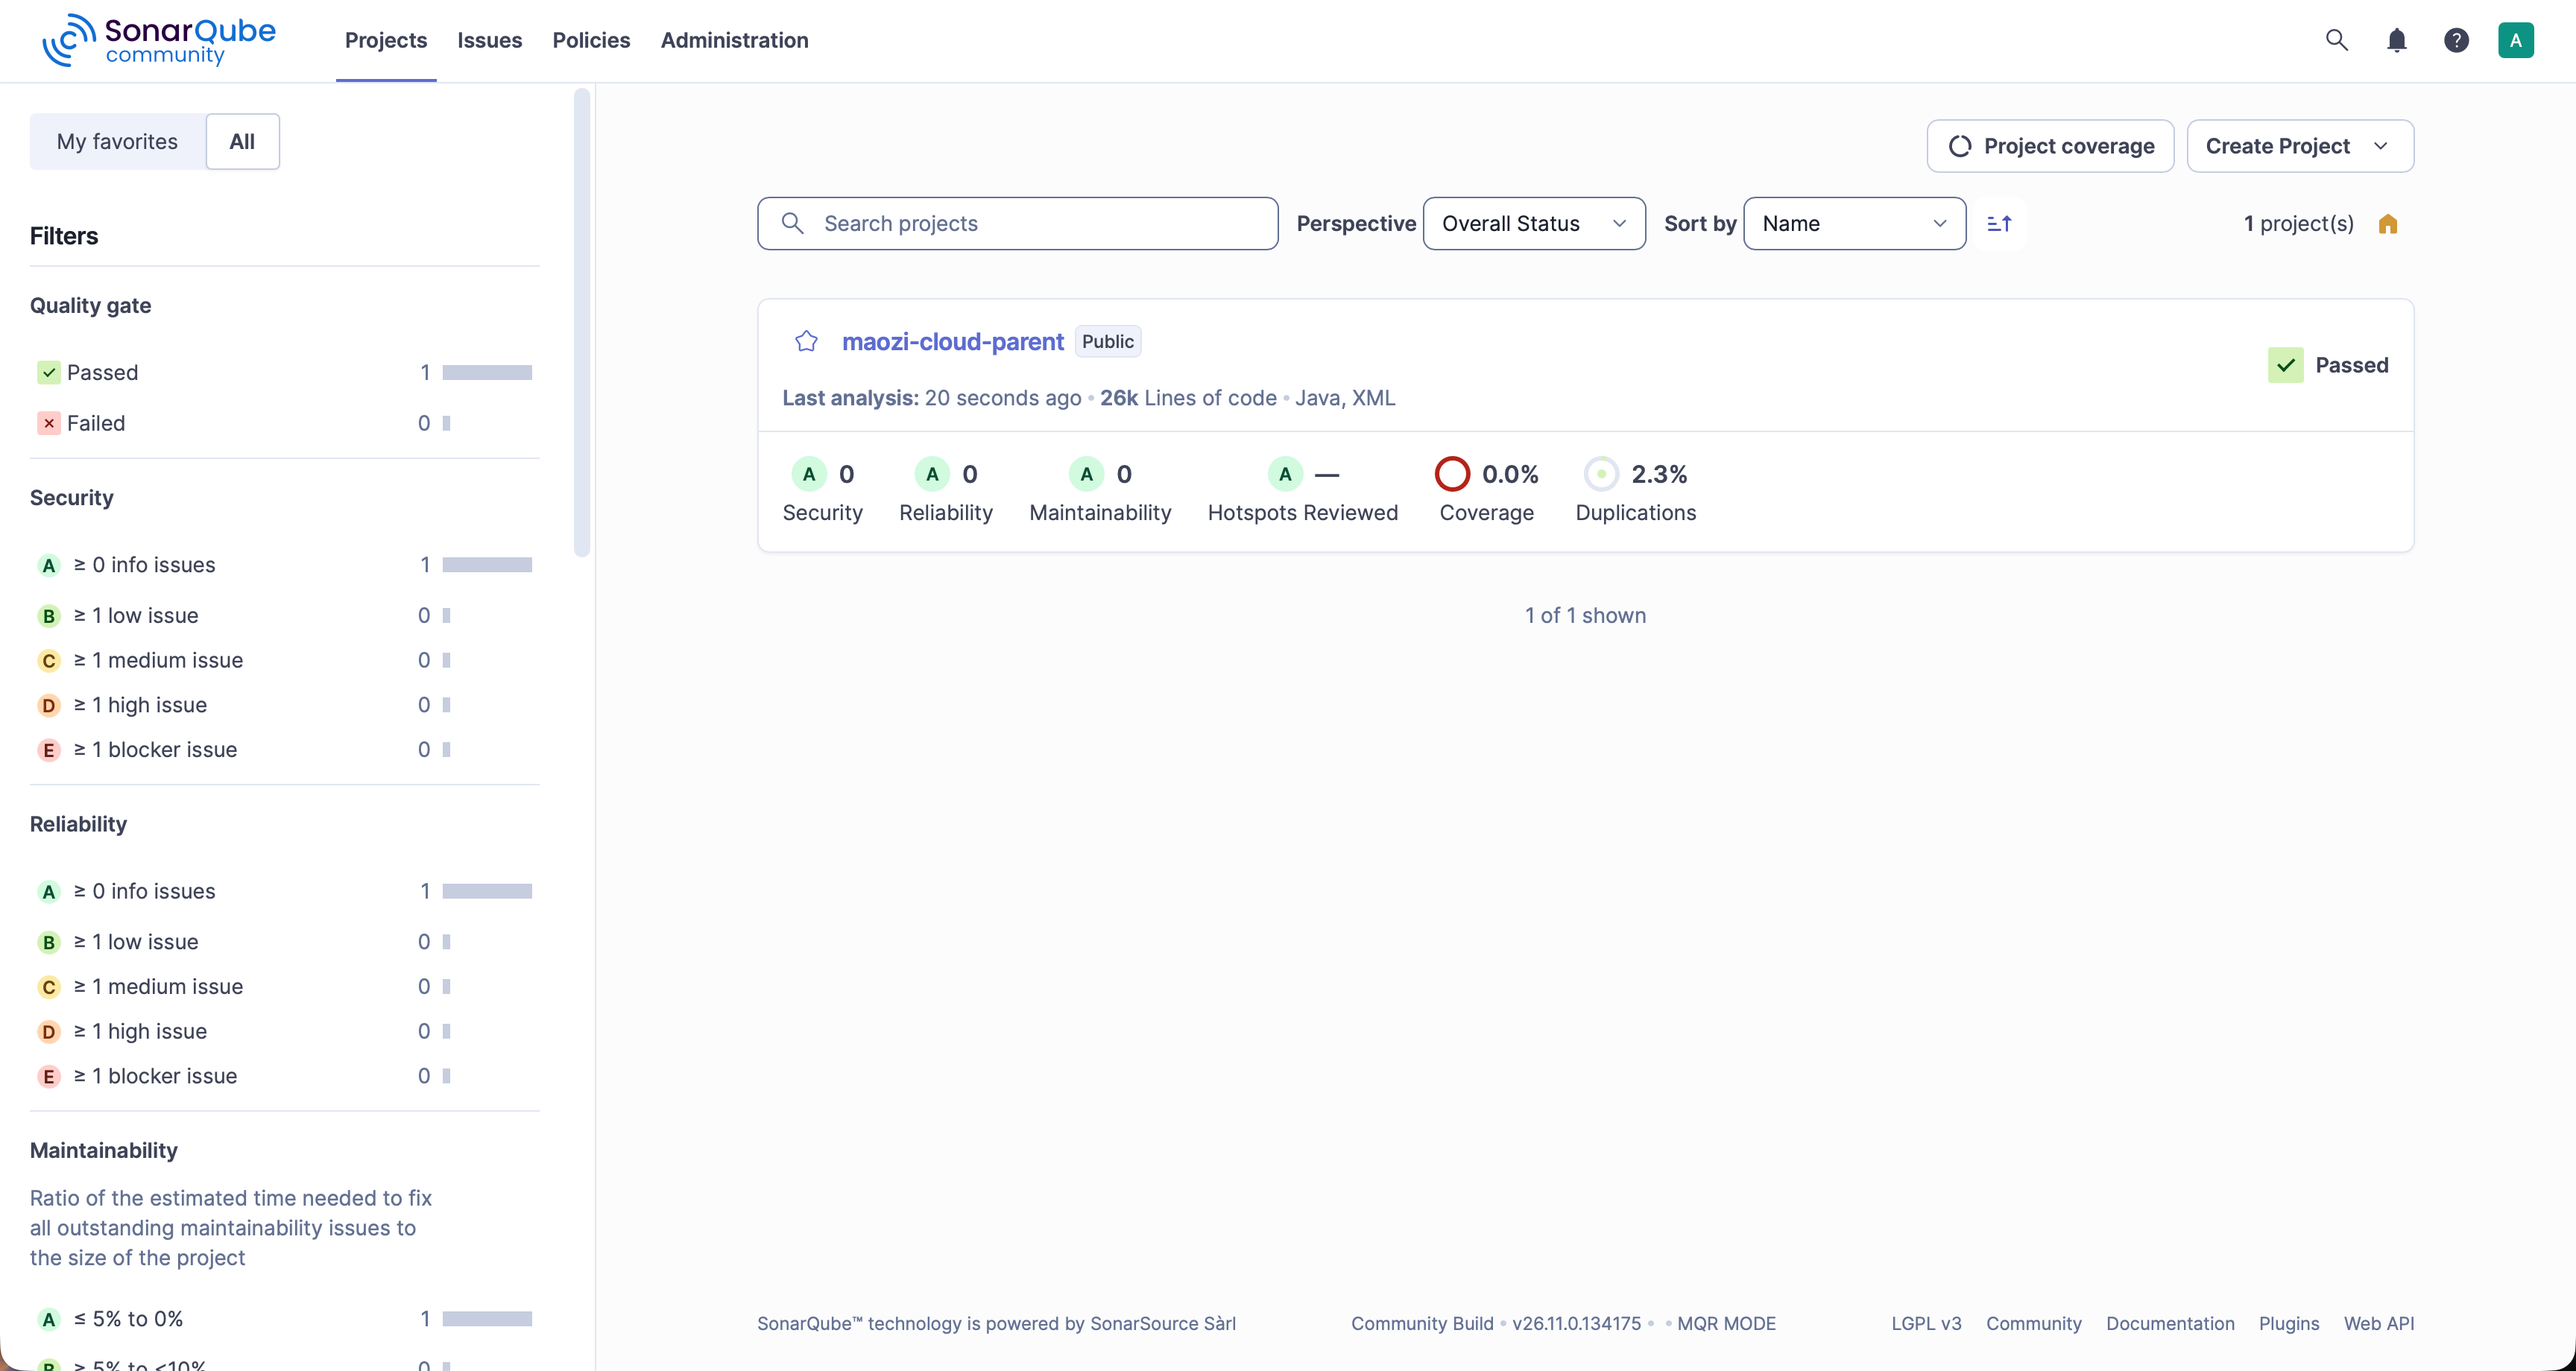
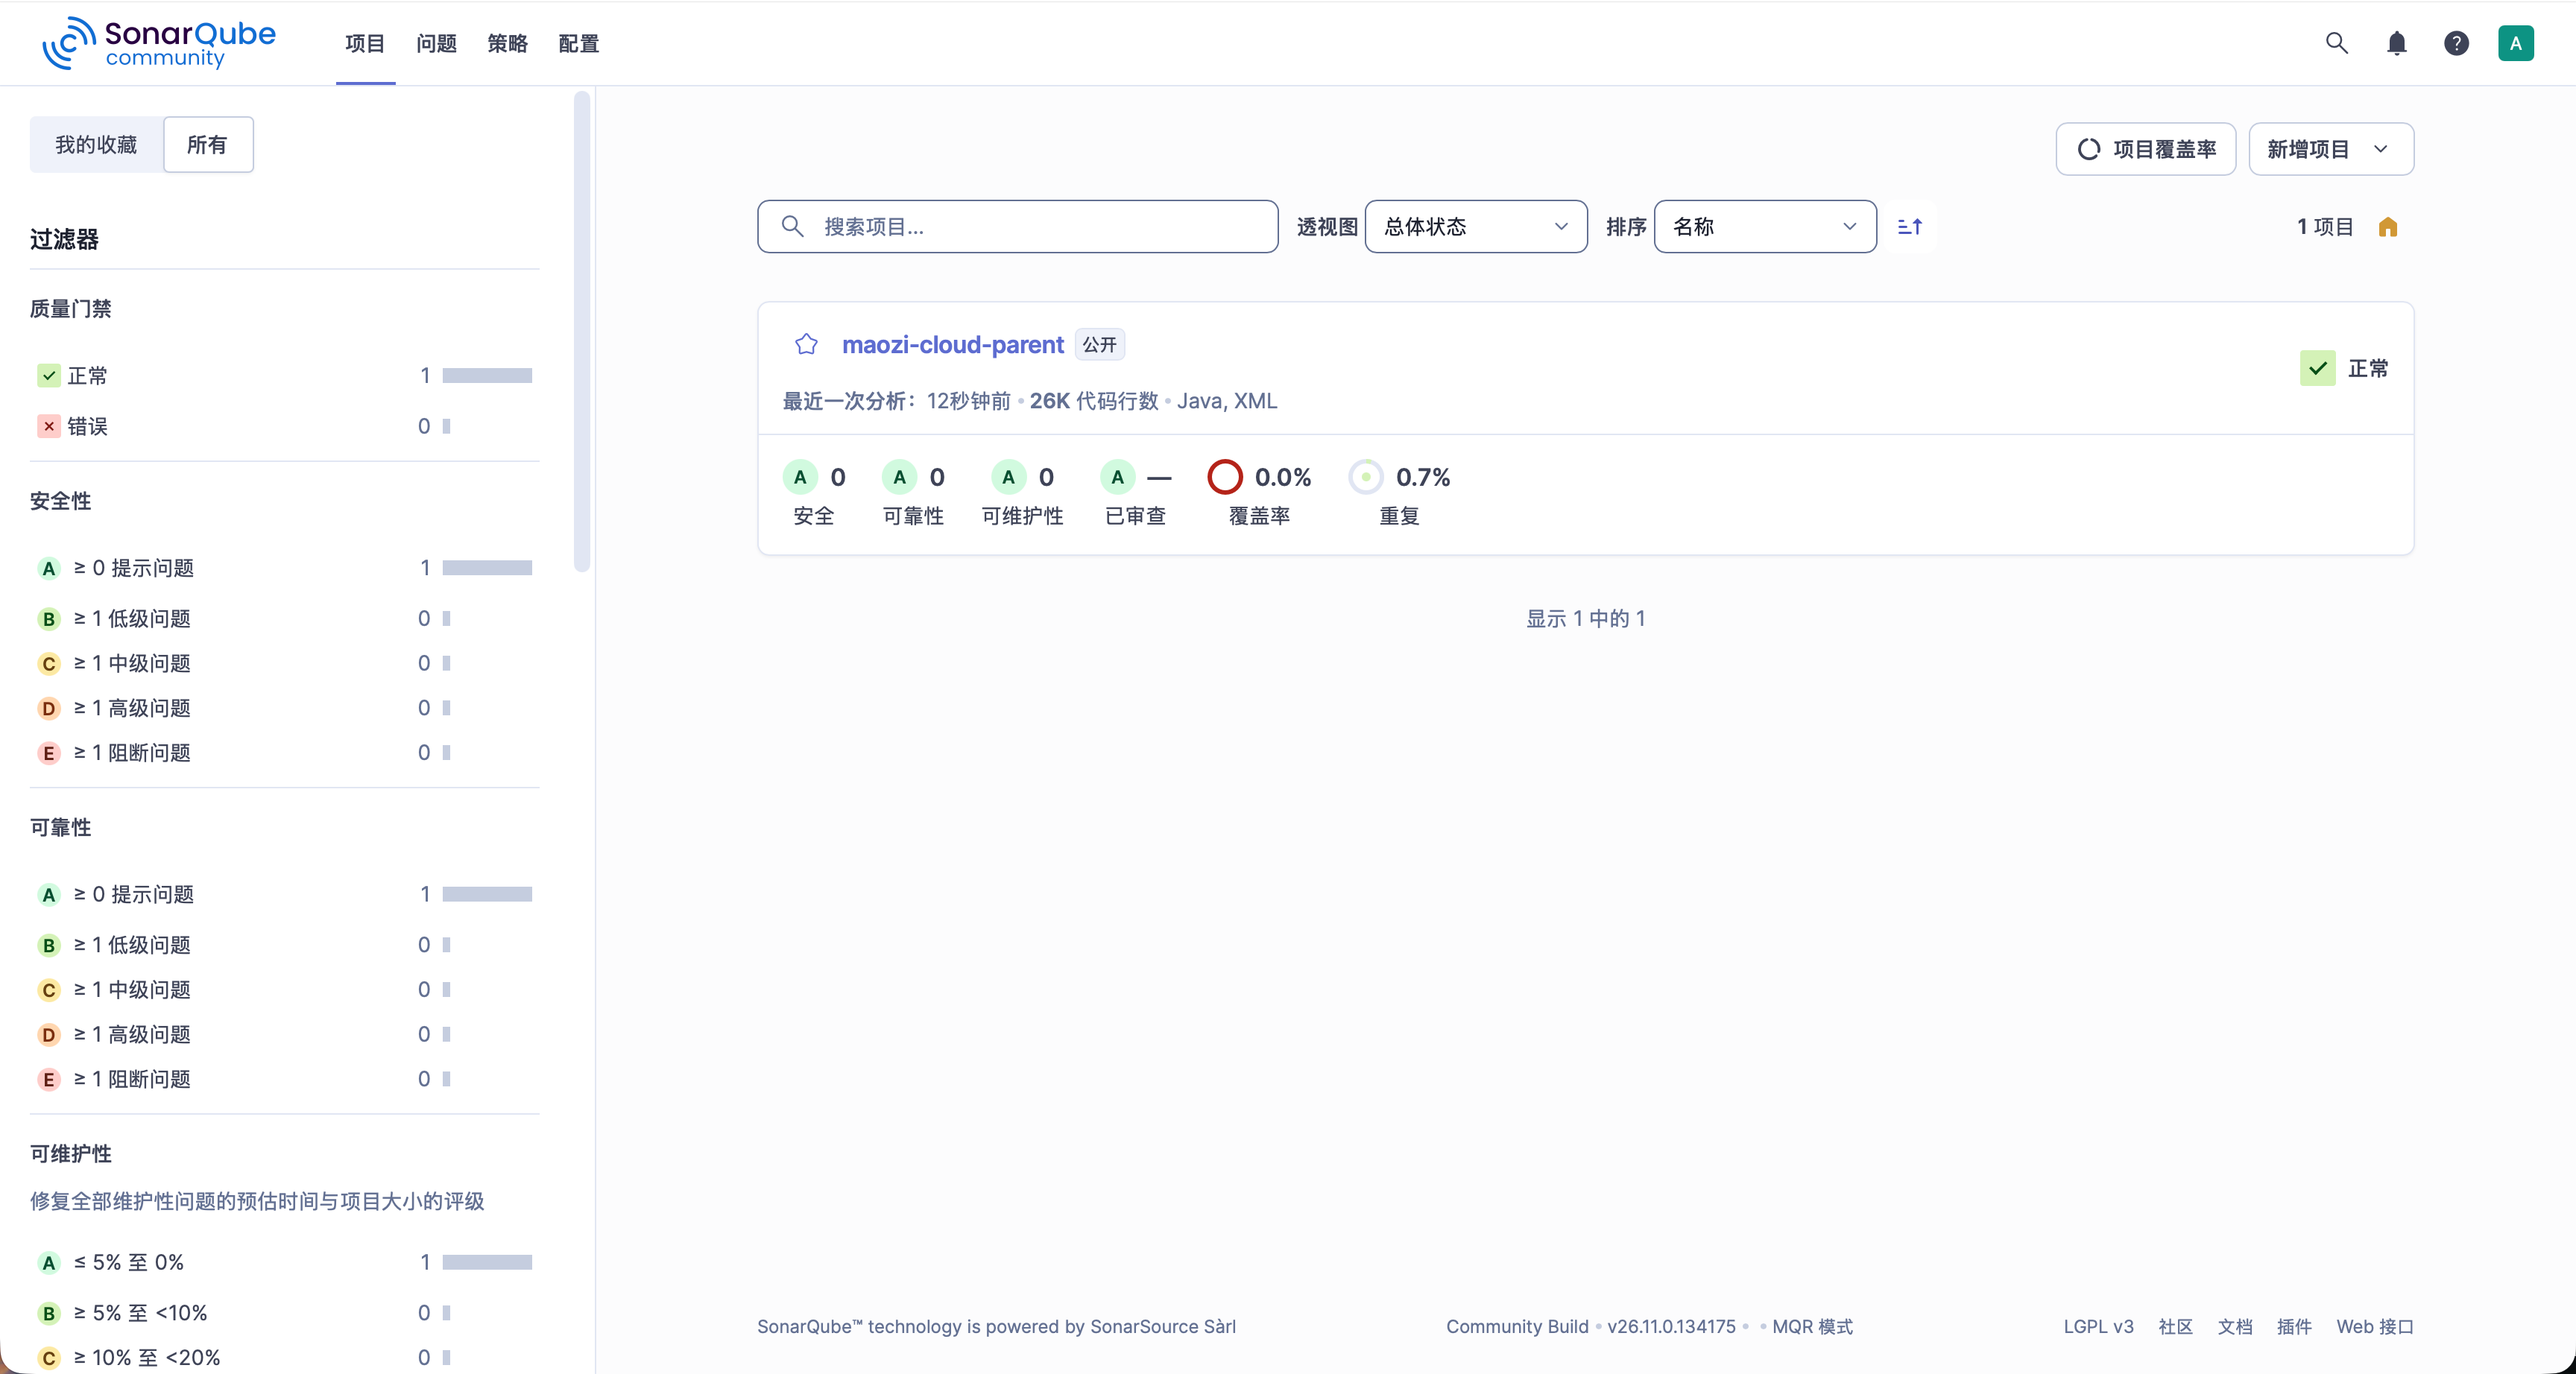
fix(*): 修复动态调用未忽略静态常量问题

diff --git a/maozi-cloud-parent/maozi-cloud-service/maozi-cloud-service-plugin/maozi-cloud-service-db-impl/src/main/java/com/maozi/service/api/impl/BaseServiceImpl.java b/maozi-cloud-parent/maozi-cloud-service/maozi-cloud-service-plugin/maozi-cloud-service-db-impl/src/main/java/com/maozi/service/api/impl/BaseServiceImpl.java
@@ -55,6 +55,7 @@ import java.lang.invoke.SerializedLambda;
 import java.lang.reflect.Field;
 import java.lang.reflect.InvocationTargetException;
 import java.lang.reflect.Method;
+import java.lang.reflect.Modifier;
 import java.util.Arrays;
 import java.util.Collection;
 import java.util.List;
@@ -1163,6 +1164,11 @@ public abstract class BaseServiceImpl<M extends IBaseMapper<T>, T extends Abstra
 
             String fieldName = field.getName();
             if (SerializeUtil.SERIAL_VERSION_UID_FIELD_NAME.equals(fieldName)){
+                continue;
+            }
+
+            // 静态常量（如 SORT_KEY）不属于查询条件且无 getter 方法，直接跳过
+            if (Modifier.isStatic(field.getModifiers())) {
                 continue;
             }
 
